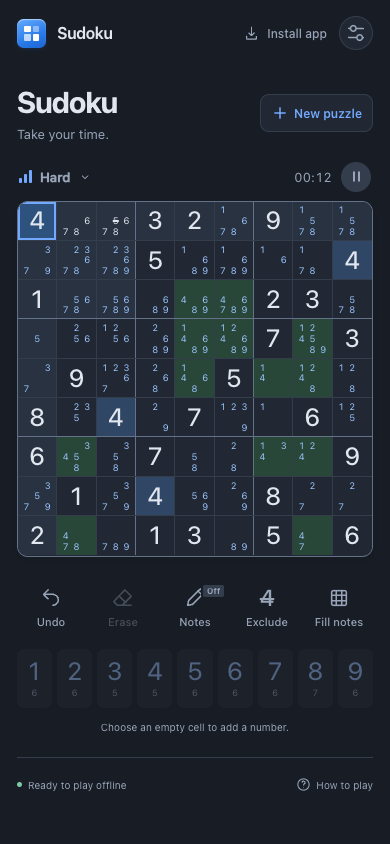
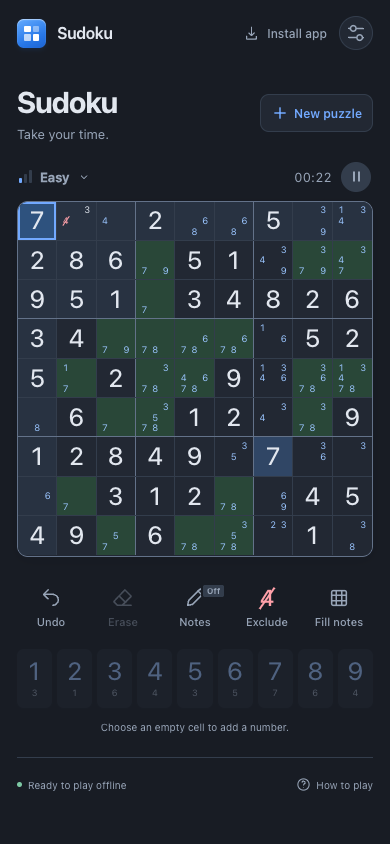
style: show excluded notes with red diagonal slashes

diff --git a/src/app/globals.css b/src/app/globals.css
@@ -121,7 +121,9 @@ h1 { font-size: 32px; font-weight: 720; letter-spacing: -1.2px; line-height: 1.1
 
 .notes { color: var(--ink); }
 .note-generated { color: var(--note-blue); }
-.note-excluded { text-decoration: line-through; text-decoration-thickness: 1.5px; }
-.exclude-icon { font-size: 23px; line-height: 22px; text-decoration: line-through; text-decoration-thickness: 2px; }
+.note-excluded,.exclude-icon { position: relative; color: var(--red); }
+.note-excluded::after,.exclude-icon::after { content: ''; position: absolute; top: 50%; left: 50%; width: 1.15em; height: 1px; background: currentColor; transform: translate(-50%, -50%) rotate(-55deg); pointer-events: none; }
+.exclude-icon { font-size: 23px; line-height: 22px; }
+.exclude-icon::after { height: 1.5px; }
 .tools { justify-content: space-between; gap: 4px; }
 .tool-button { min-width: 0; flex: 1; }
